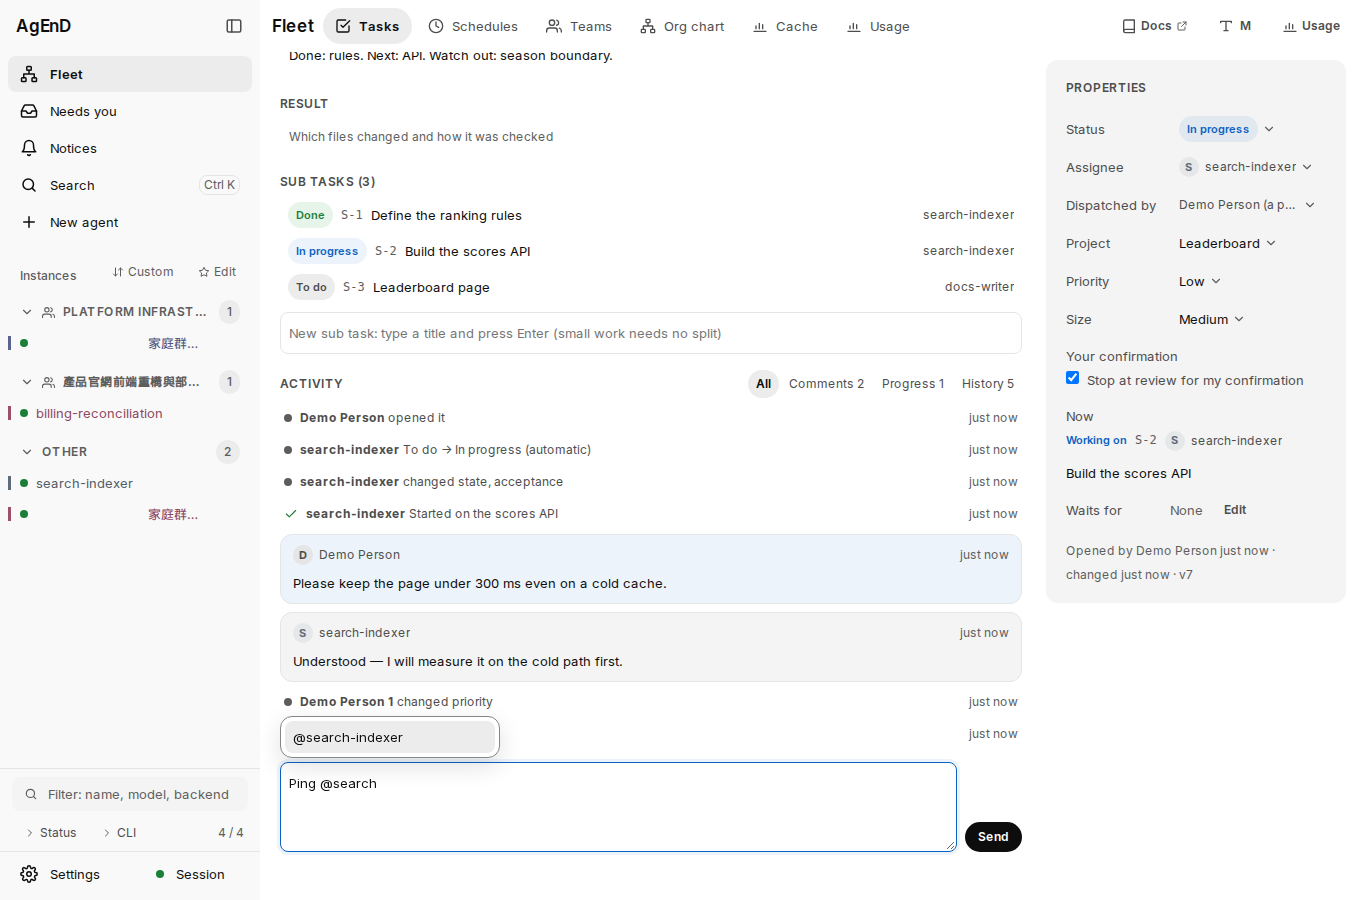
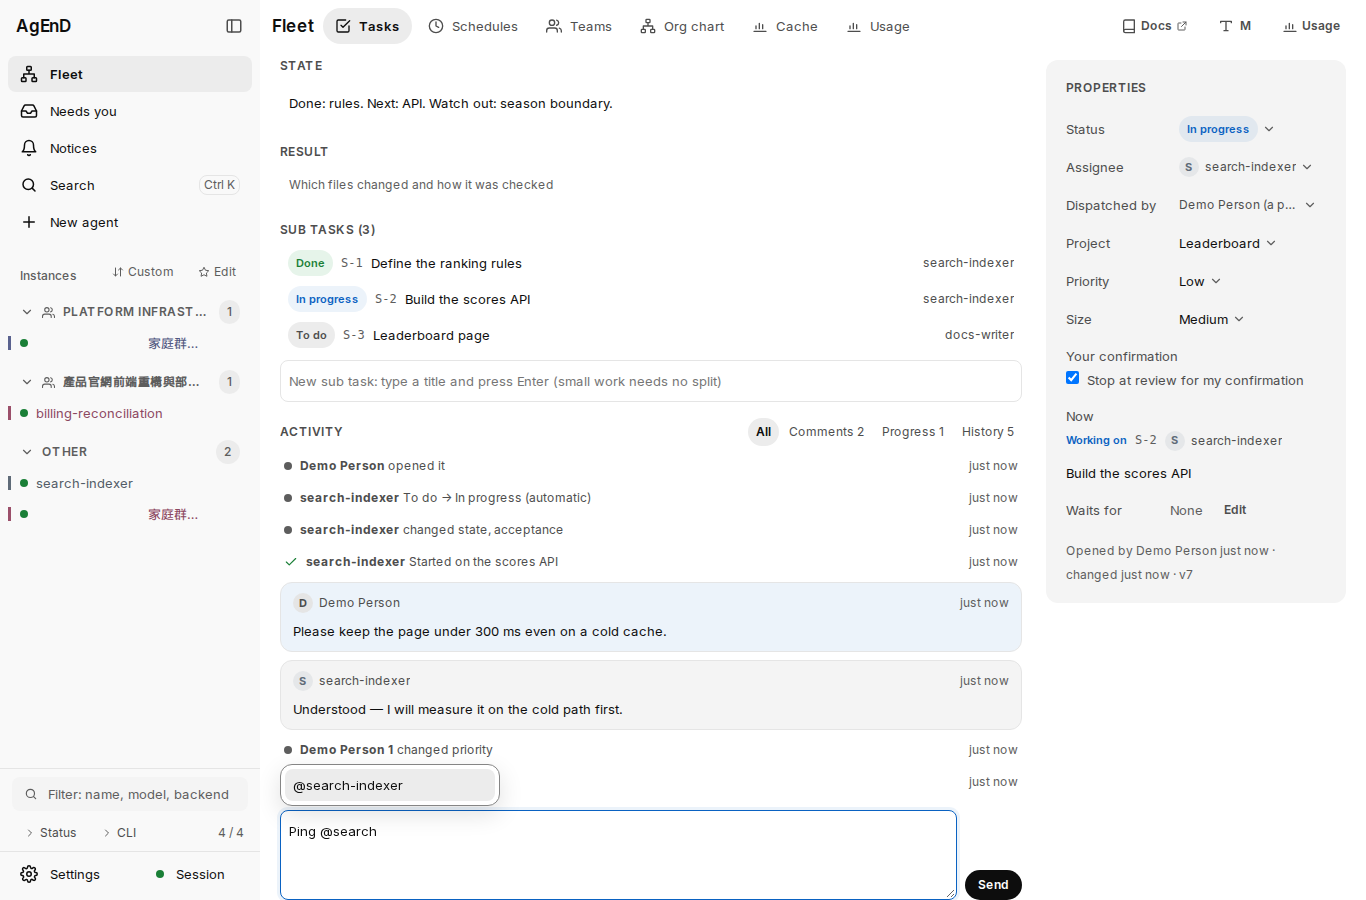
assets: AGEND-294 after-screenshots at 5444dfb1d

diff --git a/README.md b/README.md
@@ -1,4 +1,4 @@
 Screenshots for AGEND-294 (the task board as a wide card page, a toolbar, a list that sorts, a quick create, a phone layout).
-`before/` is `release/2.3.5-alpha` @ 30a7e2c4c, `after/` is `feat/tasks-ui-revamp` @ 6085e56ff; each is
+`before/` is `release/2.3.5-alpha` @ 30a7e2c4c (its task board code is unchanged since), `after/` is `feat/tasks-ui-revamp` @ 5444dfb1d; each is
 `<device>-<theme>-<language>-<n>-<screen>.png` from `scripts/manual/smoke/smoke-294-task-revamp.mts` on the 8-case matrix
 (desk 1366 / phone 390 × light / dark × English / zh-TW), made-up demo data.
